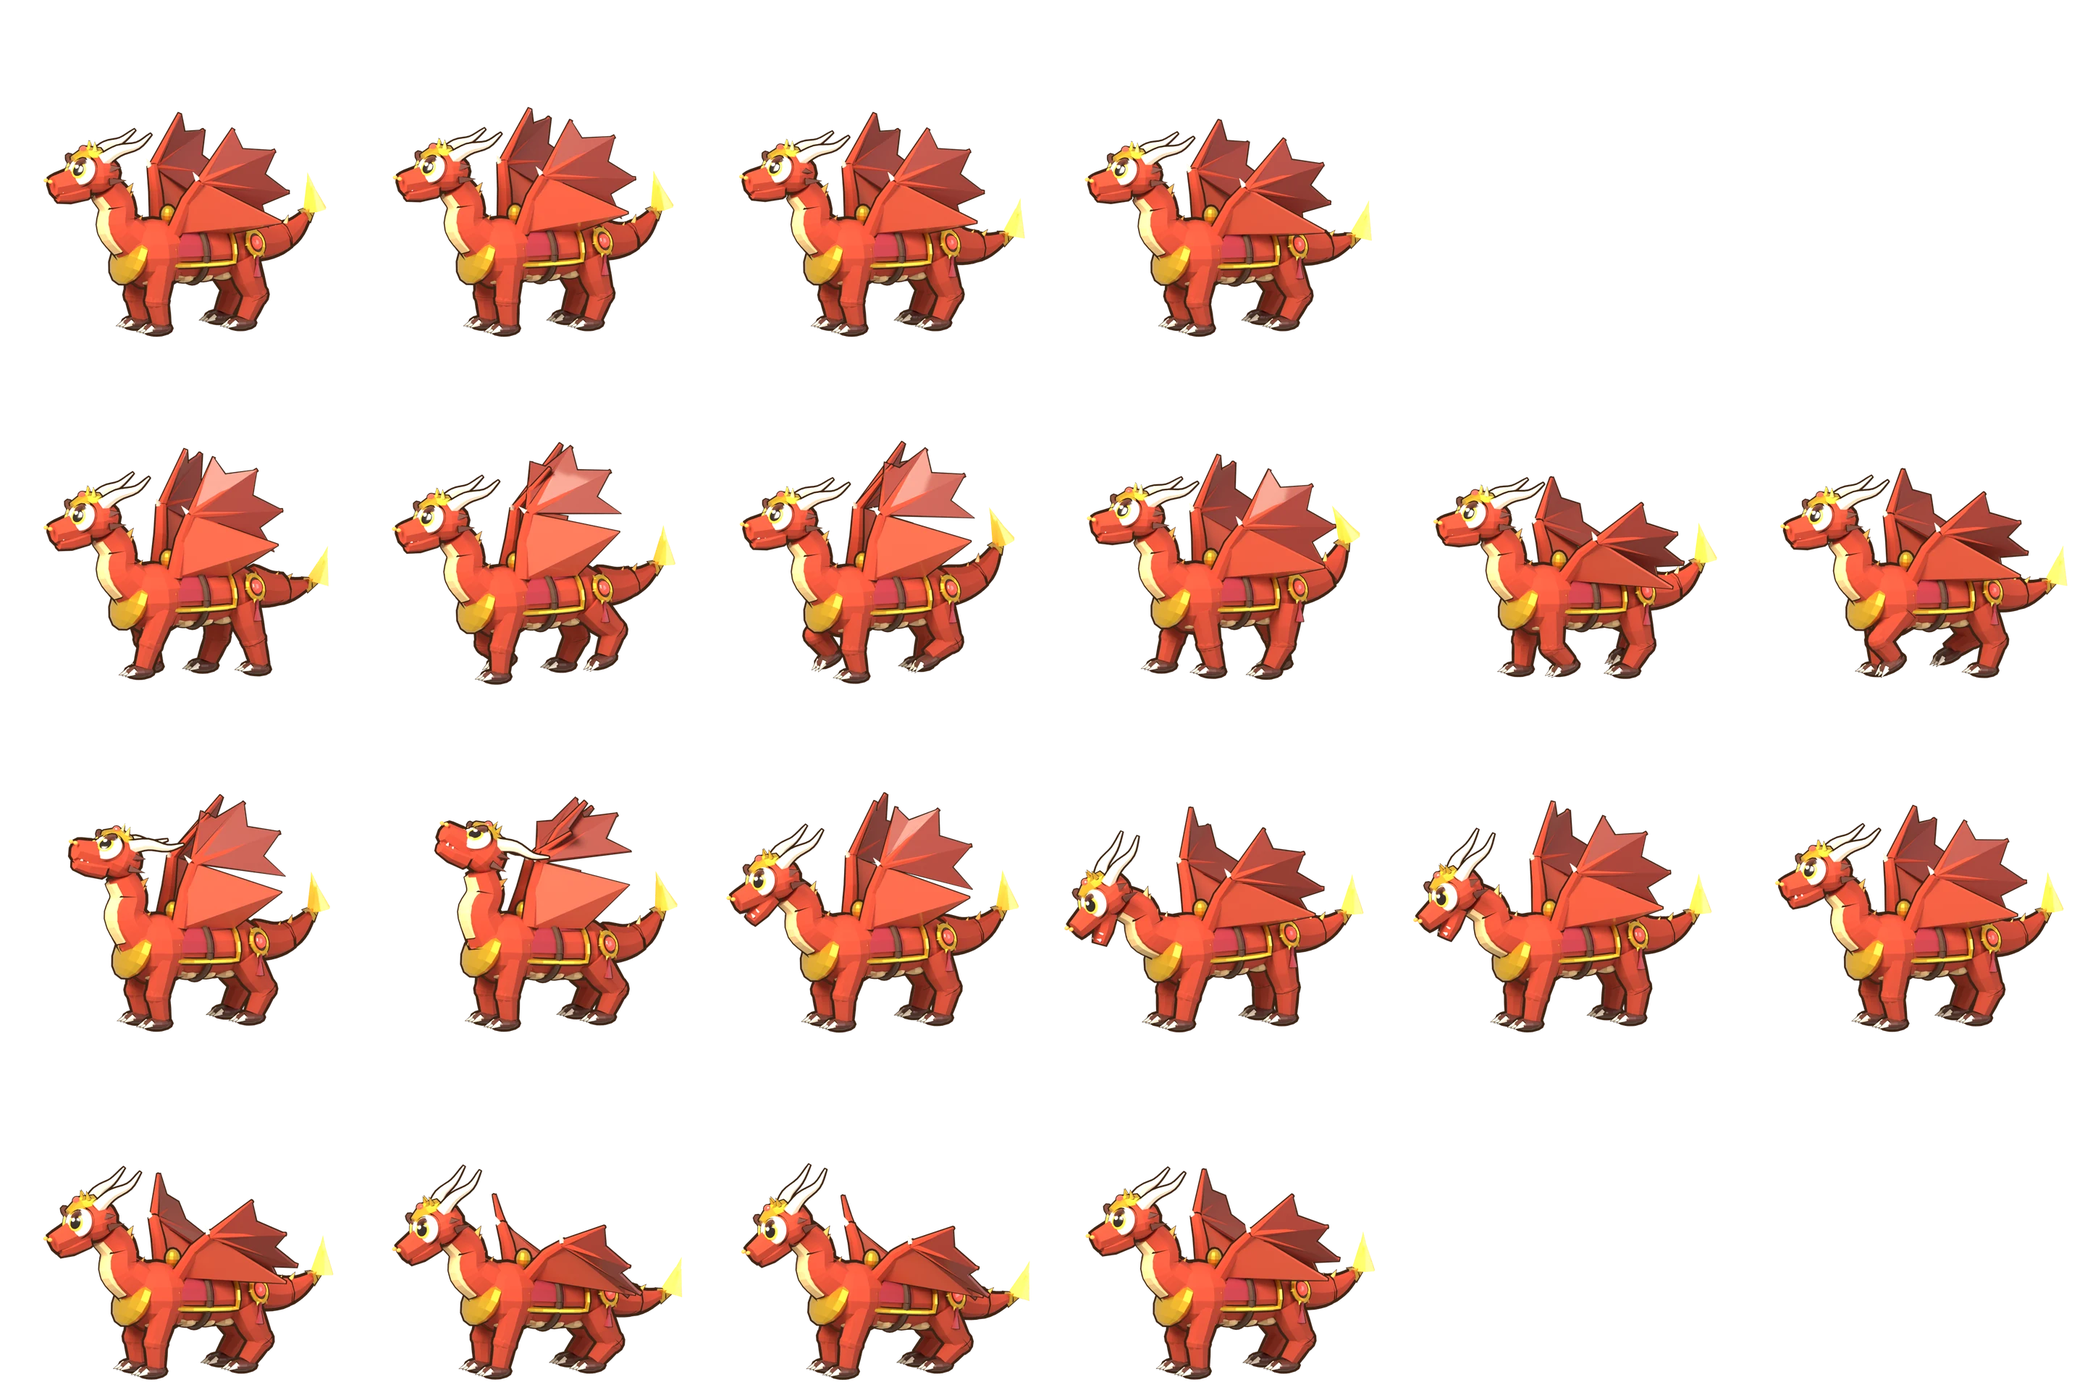
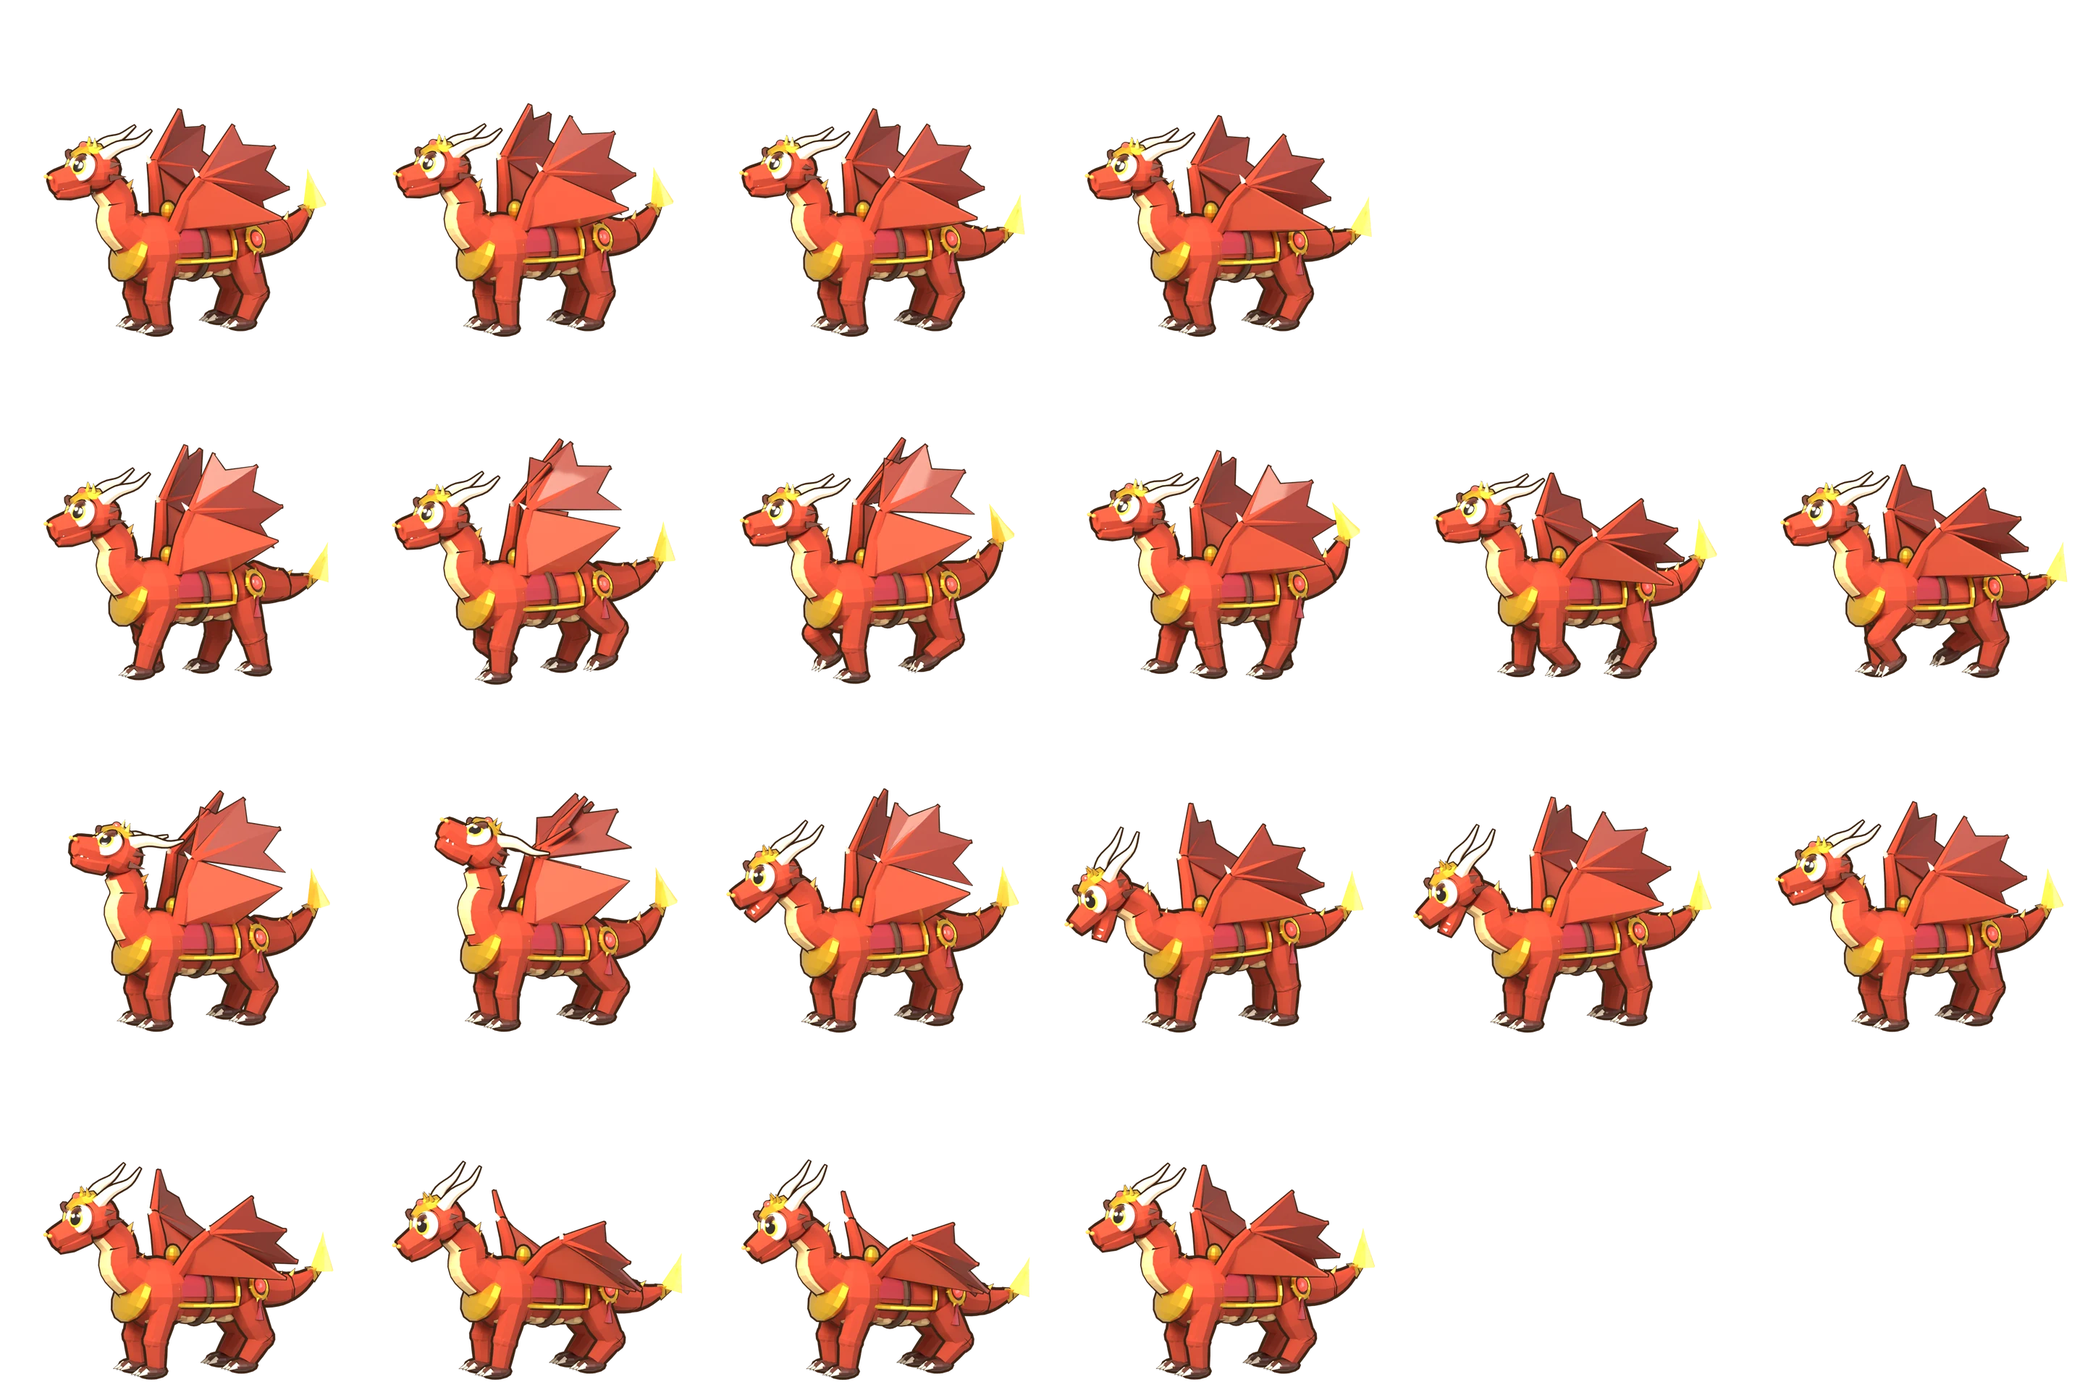
feat(mount): 탈것마다 앉는 높이 — 멧돼지는 낮게(다리 짧게) · 사슴은 높게(다리 길게)
- 안장 높이가 넷 다 같아 다리 긴 사슴 · 짧은 멧돼지에 같은 높이로 앉았다(MOUNT_SEAT 한 값) → lib/mount.py 종별 LIFT(멧돼지 −0.08 · 사슴 +0.10 · 비룡 +0.02),
  몸 · 머리 · 안장은 LIFT 만큼 · 엉덩이 = LIFT · 무릎 = 절반. 렌더 · 미리보기의 안장 자리는 seat_of(종)
- 조립이 쓰는 MOUNT_SEAT 가 종마다 달라졌다(세로 0.679 · 0.580 · 0.635 · 0.624) → mounts.mountSeatShift 로 예전 공통 자리에서 벗어난 만큼
  사냥터(HeroFrameChar) · 마이페이지(--seat-dx/dy) 주인공을 옮긴다. 칸 넘침 없음 · 넷 함께 조립

diff --git a/src/titans/mountRide.ts b/src/titans/mountRide.ts
@@ -1,4 +1,4 @@
 /** 탈것 안장 자리 — scripts/assemble-anim2.mjs 가 쓴다 (손대지 말 것). 동작별 칸마다 [가로, 세로, 기울기°] · 대기 0칸 기준 · 칸 비율(왼쪽 보는 원본) */
 export const MOUNT_RIDE: Record<string, Record<string, ReadonlyArray<readonly [number, number, number]>>> = {"mount-boar":{"idle":[[0,0,0],[-0.001,-0.003,-0.5],[0,0,0],[0.001,0.003,0.5]],"walk":[[-0.001,-0.01,-0.4],[-0.003,-0.002,-1.3],[-0.002,-0.002,-0.9],[0.001,-0.01,0.4],[0.003,-0.003,1.3],[0.002,-0.003,0.9]],"attack":[[0.005,0.006,-2.7],[0.006,0.011,-4.6],[-0.012,0.001,1.8],[-0.016,-0.005,4.5],[-0.015,-0.002,2.7],[-0.005,0,0]],"guard":[[0.013,0.006,2.2],[0.022,0.01,3.6],[0.024,0.013,4.5],[0.011,0.005,1.8]]},"mount-deer":{"idle":[[0,0,0],[-0.001,-0.003,-0.5],[0,0,0],[0.001,0.003,0.5]],"walk":[[-0.002,-0.009,-1.2],[-0.006,-0.016,-4],[-0.004,-0.007,-2.8],[0.002,0,1.2],[0.006,0,4],[0.004,0,2.8]],"attack":[[0.014,-0.001,2.7],[0.022,-0.007,4.5],[-0.013,0.001,-1.8],[-0.022,0.006,-4.6],[-0.018,0.004,-3.6],[-0.006,0,-0.9]],"guard":[[0.012,0.006,2.2],[0.02,0.01,3.6],[0.022,0.013,4.5],[0.01,0.005,1.8]]},"mount-wolf":{"idle":[[0,0,0],[-0.001,-0.003,-0.5],[0,0,0],[0.001,0.003,0.5]],"walk":[[-0.002,-0.008,-1.1],[-0.006,-0.014,-3.6],[-0.004,-0.006,-2.5],[0.002,0,1.1],[0.006,0,3.5],[0.004,0,2.5]],"attack":[[0.006,0.008,-2.7],[0.01,0.013,-4.6],[-0.011,-0.005,2.7],[-0.029,0.002,0.9],[-0.025,0.004,0],[-0.008,0.001,0]],"guard":[[0.013,0.006,2.2],[0.021,0.01,3.6],[0.022,0.013,4.5],[0.01,0.005,1.8]]},"mount-drake":{"idle":[[0,0,0],[-0.001,-0.003,-0.5],[0,0,0],[0.001,0.003,0.5]],"walk":[[-0.001,-0.009,-0.4],[-0.002,-0.002,-1.3],[-0.001,-0.002,-0.9],[0.001,-0.009,0.4],[0.002,-0.002,1.3],[0.001,-0.002,0.9]],"attack":[[0.013,0.005,1.8],[0.021,0.007,3.6],[-0.011,0.001,-0.9],[-0.027,-0.004,-2.7],[-0.023,-0.002,-1.8],[-0.005,0,0]],"guard":[[0.012,0.006,2.2],[0.021,0.01,3.6],[0.022,0.013,4.5],[0.01,0.005,1.8]]}};
 /** 안장 자리 — 뒤집은 뒤 칸 비율 [가로, 세로] (참고값, CSS 가 쓴다) */
-export const MOUNT_SEAT: Record<string, readonly [number, number]> = {"mount-boar":[0.455,0.635],"mount-deer":[0.455,0.635],"mount-wolf":[0.455,0.635],"mount-drake":[0.455,0.635]};
+export const MOUNT_SEAT: Record<string, readonly [number, number]> = {"mount-boar":[0.455,0.679],"mount-deer":[0.455,0.58],"mount-wolf":[0.455,0.635],"mount-drake":[0.455,0.624]};

diff --git a/src/TitansGame.tsx b/src/TitansGame.tsx
@@ -125,7 +125,7 @@ import { BEAT_TICKET_MAX_BOUGHT } from "./beat/tickets";
 import { GOLDEN_ESCAPE_SEC, GoldenRush, HuntStamp, TechGauge } from "./titans/huntMoments";
 import { MOUNT_RIDE } from "./titans/mountRide";
 import { mountAnimStyle, mountCellStyle, mountFrameIndex, type MountAction } from "./titans/spriteAnim";
-import { MOUNT_DEFS, MOUNT_IDS, MOUNT_MAX_LEVEL, MOUNT_TRAITS, activeMountGold, isMountId, mountGoldBonus, mountUpgradeCost, type MountId } from "./titans/mounts";
+import { MOUNT_DEFS, MOUNT_IDS, MOUNT_MAX_LEVEL, MOUNT_TRAITS, mountSeatShift, activeMountGold, isMountId, mountGoldBonus, mountUpgradeCost, type MountId } from "./titans/mounts";
 import { PET_ATTACK_SEC, PET_DEFS, PET_GEM_PRICE, PET_IDS, activePetEffect, pendingHatches, petAttackMul, type PetId } from "./titans/pets";
 import { assetUrl } from "./asset";
 import { NOTIFY_ID, cancelLocalNotification, scheduleLocalNotification, weeklyDeadlineAt, setNotifyPromptAllowed } from "./game/native";
@@ -5959,7 +5959,8 @@ function HeroFrameChar({ store, ride, ...props }: { store: ReturnType<typeof cre
   if (!ride) return <EquippedCharacter {...props} frame={frame} />;
   // 안장 자리를 따라간다 — 값은 왼쪽 보는 원본의 칸 비율이라 뒤집고, 탈것 상자(200% 정사각, ui-polish.css) → 주인공 상자(가로 100% · 세로 200%)로 바꾼다
   const s = MOUNT_RIDE[ride.art]?.[ride.action]?.[mountFrameIndex(ride.action, frame)] ?? [0, 0, 0];
-  return <div className="ride-rider" style={{ transform: `translate(${-s[0] * 200}%, ${s[1] * 100}%) rotate(${-s[2]}deg)` }}><EquippedCharacter {...props} frame={frame} /></div>;
+  const [sdx, sdy] = mountSeatShift(ride.art);   // 탈것마다 앉는 높이(2026-11-09)
+  return <div className="ride-rider" style={{ transform: `translate(${-s[0] * 200 + sdx}%, ${s[1] * 100 + sdy}%) rotate(${-s[2]}deg)` }}><EquippedCharacter {...props} frame={frame} /></div>;
 }
 /** 탈것 — 주인공과 같은 칸 번호로 달리고 · 덤비고 · 버틴다 (2026-11-05, 사용자: "탈것을 탈 때 탄 애니메이션도 같이 공격 방어 이동 자세") */
 function HeroMountLayer({ store, art, action, tier }: { store: ReturnType<typeof createFrameStore>; art: string; action: MountAction; tier?: string }) {

diff --git a/src/CharacterStatus.tsx b/src/CharacterStatus.tsx
@@ -1,4 +1,4 @@
-import { MOUNT_DEFS, isMountId } from "./titans/mounts";
+import { MOUNT_DEFS, isMountId, mountSeatShift } from "./titans/mounts";
 import { mountAnimStyle } from "./titans/spriteAnim";
 import { heroFrameMs, heroFrames } from "./titans/spriteAnim";
 import { bootsTierOf, glovesTierOf, shieldTierOf } from "./equipment/anchors";
@@ -281,7 +281,7 @@ export function CharacterStatus({
 
       <section className="character-hero-card">
         <div className="character-equipment-preview">
-          <div className={`character-equipment-facing ${isMountId(progress.activeMount) ? "is-riding" : ""}`}>
+          <div className={`character-equipment-facing ${isMountId(progress.activeMount) ? "is-riding" : ""}`} style={isMountId(progress.activeMount) ? (() => { const [dx, dy] = mountSeatShift(MOUNT_DEFS[progress.activeMount].art); return { "--seat-dx": `${dx}%`, "--seat-dy": `${dy}%` } as CSSProperties; })() : undefined}>
             {isMountId(progress.activeMount) && <div className="hero-mount status-mount" aria-hidden="true"><i style={mountAnimStyle(MOUNT_DEFS[progress.activeMount].art, "idle")} /></div>}
             <EquippedCharacter riding={isMountId(progress.activeMount)} worn={progress.equippedGear} mode="idle" frame={previewFrame} weaponLevel={progress.equippedWeaponLevel} shoulder={progress.equippedShoulder} evolution={progress.evolutionPath} character={progress.activeCharacter} weaponSkin={progress.equippedWeaponSkin} gear={{ shield: shieldTierOf(progress.dodgeBestStage), gloves: glovesTierOf(titans.equipmentTraining.weaponMastery), boots: bootsTierOf(progress.towerBestFloor) }} />
           </div>

diff --git a/src/titans/mounts.ts b/src/titans/mounts.ts
@@ -1,3 +1,5 @@
+import { MOUNT_SEAT } from "./mountRide";
+
 /**
  * 탈것 (2026-11-03, 사용자: "탈것도 아이템으로 만들어줘 상점에서도 팔고 강화도 가능하게") — 펫과 같은 길.
  * 상점 꾸미기 → 탈것에서 붉은 보석으로 사고, 1마리 장착, 강화석으로 강화. 효과는 사냥 골드뿐이라 전투 밸런스(성문 방어 · 대장 시간)를 건드리지 않는다.
@@ -13,6 +15,13 @@ export const MOUNT_DEFS: Record<MountId, MountDef> = {
   drake: { id: "drake", name: "불꽃 비룡", art: "mount-drake", gemPrice: 2000, base: 0.05, perLevel: 0.008 },
 };
 export const MOUNT_IDS: MountId[] = ["boar", "deer", "wolf", "drake"];
+/** 앉는 자리 차이 (2026-11-09, 사용자 목록 R3 "다리 긴 사슴 · 짧은 멧돼지에 같은 높이로 앉는다") — 탈것 시트의 안장 자리(MOUNT_SEAT, 조립이 적는다)가
+ *  예전 공통 자리([0.455, 0.635])에서 벗어난 만큼 주인공을 옮긴다. 값은 주인공 상자 비율 % — 탈것 상자(200% 정사각)에서 가로 ×200 · 세로 ×100 */
+const SEAT_BASE = [0.455, 0.635] as const;
+export function mountSeatShift(art: string): [number, number] {
+  const s = MOUNT_SEAT[art];
+  return s ? [(s[0] - SEAT_BASE[0]) * 200, (s[1] - SEAT_BASE[1]) * 100] : [0, 0];
+}
 /** 종 특징 (2026-11-09, 사용자: "탈것이 볼품없다 — 특징과 과금 느낌") — 상점 카드 칩. 그림(art-gen/blender/lib/mount.py)의 꾸밈과 같은 말 */
 export const MOUNT_TRAITS: Record<MountId, readonly string[]> = {
   boar: ["엄니 돌진", "도토리 장식"],

diff --git a/src/ui/tiers.css b/src/ui/tiers.css
@@ -204,4 +204,4 @@
 .character-equipment-facing.is-riding { position: relative; }
 .character-equipment-facing .status-mount { position: absolute; left: 50%; bottom: calc(-0.0275 * 200%); width: 200%; aspect-ratio: 1; translate: -47% 0; z-index: 0; pointer-events: none; }
 .character-equipment-facing .status-mount i { position: absolute; inset: 0; display: block; transform: scaleX(-1); }
-.character-equipment-facing.is-riding .equipped-character { position: relative; z-index: 1; translate: -.9% -16.9%; scale: .857; transform-origin: 47.95% 87%; }
+.character-equipment-facing.is-riding .equipped-character { position: relative; z-index: 1; translate: calc(-.9% + var(--seat-dx, 0%)) calc(-16.9% + var(--seat-dy, 0%)); scale: .857; transform-origin: 47.95% 87%; }   /* 탈것마다 앉는 높이(2026-11-09, mountSeatShift) */

diff --git a/art-gen/blender/lib/mount.py b/art-gen/blender/lib/mount.py
@@ -7,7 +7,7 @@
   디딘 발은 땅에 붙어 있고 몸만 오르내린다. 걸음은 종마다: 멧돼지 종종 속보 · 사슴 껑충 구보 · 늑대 습보 · 비룡 묵직한 걸음 + 날갯짓.
 - 꾸밈은 상점 등급(economy/cosmetics cosmeticTier: 멧돼지 SR · 사슴 SSR · 늑대 UR · 비룡 LR)대로 화려해진다 —
   가죽 안장 · 도토리 장식 → 은 장식 · 꽃 목걸이 · 빛나는 잎 → 강철 갑주 · 룬 · 얼음 결정 → 금 갑주 · 보석 · 불꽃.
-게임과 맞물린 약속: 'body' 뼈 · 안장 가운데 = SEAT(= ride_seat.SADDLE_POINT, 쉬는 자세) · 동작 칸 수(anim-layout mount) · 앞 -Y · 발 z=0 · 왼쪽 보게 렌더(yaw −64).
+게임과 맞물린 약속: 'body' 뼈 · 안장 가운데 = seat_of(종) (SEAT + 종별 LIFT, 2026-11-09) · 동작 칸 수(anim-layout mount) · 앞 -Y · 발 z=0 · 왼쪽 보게 렌더(yaw −64).
 칸(480², 배율 0.6 고정): 발에서 위로 1.7 · 머리 쪽 1.0 · 꼬리 쪽 0.9 (캐릭터 단위, 옆모습 투영) 안에 들어야 한다.
 """
 import bpy
@@ -21,7 +21,13 @@ from lib import bcommon as C
 from lib.beaver import _attach, spline, interp, _rot_local
 from lib.creature import _m, _skin, _eyes, OUT
 
-SEAT = (0.0, 0.03, 0.56)   # 안장 가운데(쉬는 자세) — ride_seat.SADDLE_POINT 와 같아야 한다(게임 CSS 의 주인공 자리가 넷 다 한 값)
+SEAT = (0.0, 0.03, 0.56)   # 안장 가운데 기준(쉬는 자세) — 종마다 lift 만큼 오르내린다(seat_of). 게임은 MOUNT_SEAT 차이만큼 주인공을 옮긴다(TitansGame HeroFrameChar)
+# 앉는 높이 (2026-11-09, 사용자 목록 R3 "다리 긴 사슴 · 짧은 멧돼지에 같은 높이로 앉는다") — 멧돼지 낮게(다리 짧게) · 사슴 높게(다리 길게)
+LIFT = {'mount-boar': -0.08, 'mount-deer': 0.1, 'mount-wolf': 0.0, 'mount-drake': 0.02}
+
+
+def seat_of(who):
+    return (SEAT[0], SEAT[1], SEAT[2] + LIFT.get(who, 0.0))
 TAU = math.tau
 _LAYOUT = json.load(open(os.path.join(os.path.dirname(os.path.dirname(os.path.dirname(os.path.abspath(__file__)))), 'anim-layout.json'), encoding='utf-8'))['mount']['actions']
 
@@ -72,8 +78,9 @@ class MRig:
 def _leg_pts(spec, leg):
     s = spec['front'] if leg[0] == 'f' else spec['hind']
     x = s['x'] * (1 if leg[1] == 'l' else -1)
-    hip = Vector((x, s['hip'][0], s['hip'][1]))
-    knee = Vector((x, s['knee'][0], s['knee'][1]))
+    lift = spec.get('lift', 0.0)
+    hip = Vector((x, s['hip'][0], s['hip'][1] + lift))
+    knee = Vector((x, s['knee'][0] + (0.012 if leg[0] == 'b' else -0.008) * (lift / 0.1), s['knee'][1] + lift * 0.5))
     ankle = Vector((x, s['ankle'][0], s['ankle'][1]))
     return hip, knee, ankle, s['r']
 
@@ -96,6 +103,11 @@ def _bones(spec, who):
         for sx, s in ((1, 'L'), (-1, 'R')):
             B[f'wing.{s}'] = ((sx * 0.1, -0.1, 0.52), (sx * 0.34, -0.04, 0.76), 'body')
             B[f'wing2.{s}'] = ((sx * 0.34, -0.04, 0.76), (sx * 0.6, 0.14, 0.9), f'wing.{s}')
+    lift = spec.get('lift', 0.0)
+    if lift:
+        for k in list(B):
+            h, t, p = B[k]
+            B[k] = ((h[0], h[1], h[2] + lift), (t[0], t[1], t[2] + lift), p)
     for leg in LEGS:
         hip, knee, ankle, _ = _leg_pts(spec, leg)
         B[f'{leg}.u'] = (tuple(hip), tuple(knee), 'body')
@@ -573,7 +585,7 @@ BUILDERS = {'mount-boar': _build_boar, 'mount-deer': _build_deer, 'mount-wolf': 
 
 
 def build(who, coll=None):
-    spec = SPECIES[who]
+    spec = dict(SPECIES[who], lift=LIFT.get(who, 0.0))
     coll = coll or C.collection(who)
     bones = _bones(spec, who)
     arm = _armature(who, bones, coll)
@@ -595,6 +607,12 @@ def build(who, coll=None):
         _saddle(add, spec, M, coll)
     finally:
         C.FACET = saved
+    if spec['lift']:   # 몸 · 머리 · 안장 · 꼬리 · 날개는 쉬는 자리에서 지었으니 lift 만큼 옮긴다(다리 · 발은 _leg_pts 가 이미 반영)
+        for bone, objs in parts.items():
+            if bone[:2] in ('fl', 'fr', 'bl', 'br') and '.' in bone:
+                continue
+            for o in objs:
+                o.location.z += spec['lift']
     bpy.context.view_layer.update()
     for bone, objs in parts.items():
         for o in objs:

diff --git a/art-gen/blender/render_anim2.py b/art-gen/blender/render_anim2.py
@@ -74,10 +74,10 @@ def run(who, only=None):
         render_actions(rig, A2.beaver_actions(cfg.get('role', 'melee'), weapon=cfg.get('weapon_l')), BV.pose, outdir, cam, math.radians(RR.YAW), 1, None, only)
     elif who.startswith('mount-'):   # 탈것 — 안장 자리를 칸마다 적어 주인공이 같이 움직인다. 2026-11-09 부터 탈것 전용 모델 · 걸음(lib/mount.py)
         from lib import mount as MT
-        assert tuple(MT.SEAT) == tuple(RS.SADDLE_POINT), (MT.SEAT, RS.SADDLE_POINT)
         rig = MT.build(who)
-        up = (RS.SADDLE_POINT[0], RS.SADDLE_POINT[1], RS.SADDLE_POINT[2] + 0.2)
-        render_actions(rig, MT.actions(who), MT.pose, outdir, cam, math.radians(-RS.MOUNT_YAW), -1, {'saddle': ('body', RS.SADDLE_POINT, up)}, only)
+        seat = MT.seat_of(who)   # 종마다 앉는 높이(2026-11-09) — 조립이 MOUNT_SEAT 로 적고 게임이 그 차이만큼 주인공을 옮긴다
+        up = (seat[0], seat[1], seat[2] + 0.2)
+        render_actions(rig, MT.actions(who), MT.pose, outdir, cam, math.radians(-RS.MOUNT_YAW), -1, {'saddle': ('body', seat, up)}, only)
     elif who == 'hero-ride':   # 탈것 위 주인공 — 앉은 자세 · 먼 다리 없음
         rig = BV.build('hero', R.HERO)
         RS.seat_hero(rig)

diff --git a/art-gen/blender/mount_lab.py b/art-gen/blender/mount_lab.py
@@ -42,7 +42,7 @@ for action, f in shots:
         bpy.context.view_layer.update()
         hero.arm.scale = (RS.RIDER_SCALE,) * 3
         hero.arm.rotation_euler.z = math.radians(RS.RIDER_YAW)
-        hero.arm.location = RR.bone_point(mount, 'body', RS.SADDLE_POINT) - Vector((0, 0, RS.RIDER_SINK))
+        hero.arm.location = RR.bone_point(mount, 'body', MT.seat_of(who)) - Vector((0, 0, RS.RIDER_SINK))
     bpy.context.view_layer.update()
     scene.render.filepath = os.path.join(outdir, f'{action}_{i}.png')
     bpy.ops.render.render(write_still=True)

diff --git a/art-gen/blender/ride_lab.py b/art-gen/blender/ride_lab.py
@@ -36,7 +36,7 @@ BV.pose(hero, hp)
 bpy.context.view_layer.update()
 hero.arm.scale = (RS.RIDER_SCALE,) * 3
 hero.arm.rotation_euler.z = math.radians(RS.RIDER_YAW + hp.get('yaw', 0))
-hero.arm.location = RR.bone_point(mount, 'body', RS.SADDLE_POINT) - Vector((0, 0, RS.RIDER_SINK))
+hero.arm.location = RR.bone_point(mount, 'body', MT.seat_of(who)) - Vector((0, 0, RS.RIDER_SINK))
 bpy.context.view_layer.update()
 bpy.context.scene.render.filepath = out
 bpy.ops.render.render(write_still=True)
